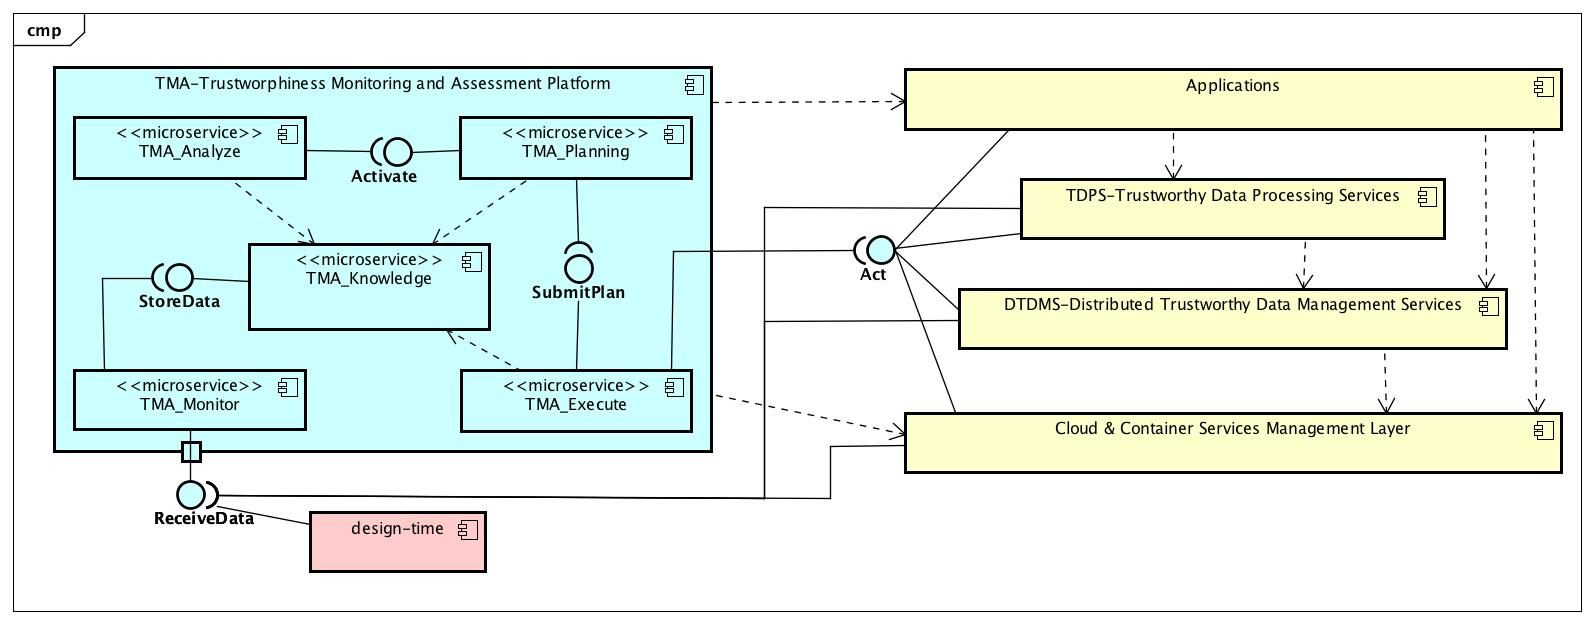
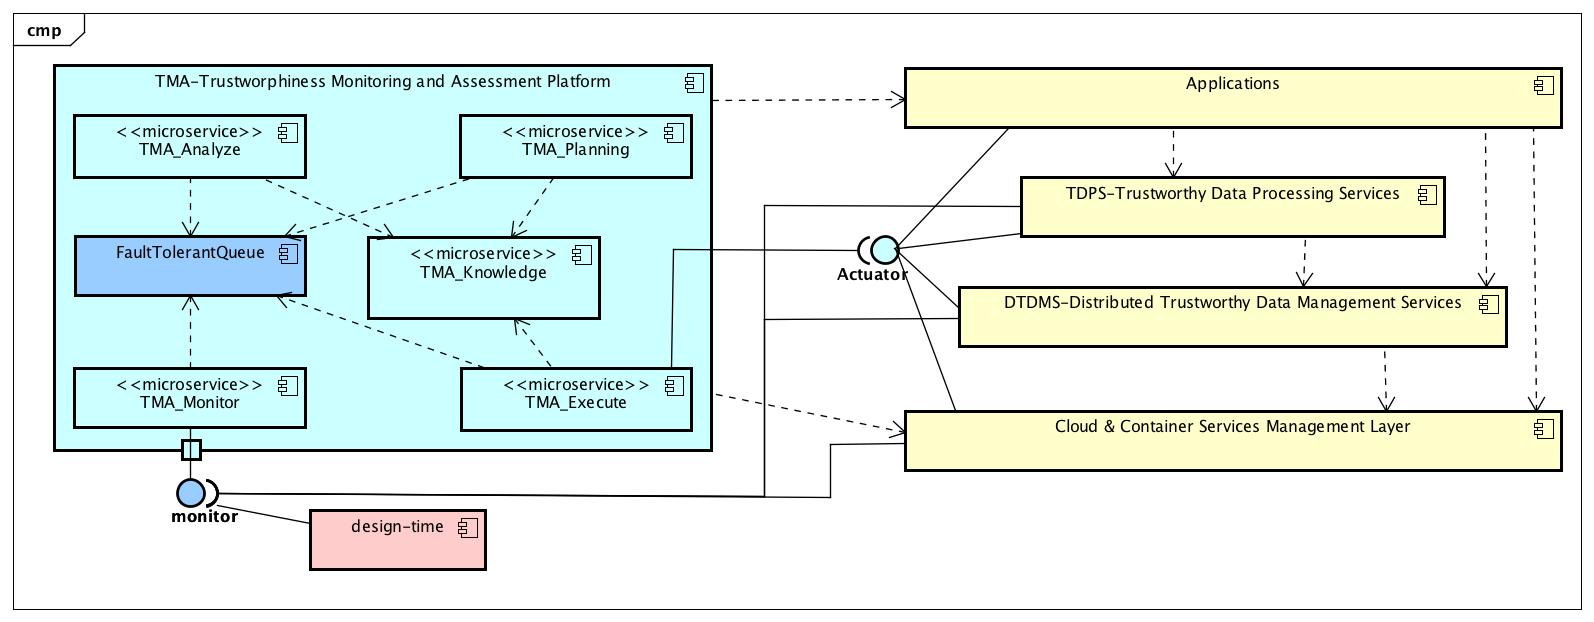
Architecture v2 for the UFCG F2F (#4)
* Detailed Architecture for the F2F Meeting at UFCG.
* TMA Execute Diagrams detailed.
* New sequence diagrams for the E component.
* Monitor documentation update.

diff --git a/README.md b/README.md
@@ -22,11 +22,11 @@ Finally, the components of the remaining ecosystem layers provide an interface w
 
 ## TMA Platform Architecture
 
-The platform architecture is presented in the [figure below](architecture/diagrams/TMA-Platform_Detailed_Architecture_Actors.jpg). 
+The platform architecture is presented in the [figure below](architecture/diagrams/TMA-Platform_Detailed_Architecture.jpg). 
 In practice, the platform is a special-purpose [**ATMOSPHERE**](http://www.atmosphere-eubrazil.eu) application, also deployed over the container services layer, and internally designed in a microservices architecture, where each component represents one `MAPE-K` step.
 
 
-*![High level architecture of TMA Framework](architecture/diagrams/TMA-Platform_Detailed_Architecture_Actors.jpg) Architecture and interfaces of the trustworthiness platform.*
+*![High level architecture of TMA Framework](architecture/diagrams/TMA-Platform_Detailed_Architecture.jpg) Architecture and interfaces of the trustworthiness platform.*
 
 
 The [`TMA_Monitor`](#tma_monitor) component follows a passive strategy (push mode) in which the other layers provide trustworthiness-related information through the `ReceiveData` RESTful interface. 
@@ -53,19 +53,19 @@ Finally, the [`TMA_Execute`](#tma_execute) microservice runs the adaptation plan
 More details can be found in the documentation of each of these components.
 
 ### TMA\_Monitor
-[Main repository available here.](https://github.com/nmsa/tma-framework-m)
+[Main repository available here.](https://github.com/eubr-atmosphere/tma-framework-m)
 
 ### TMA\_Analyze
-[Main repository available here.](https://github.com/nmsa/tma-framework-a)
+[Main repository available here.](https://github.com/eubr-atmosphere/tma-framework-a)
 
 ### TMA\_Planning
-[Main repository available here.](https://github.com/nmsa/tma-framework-p)
+[Main repository available here.](https://github.com/eubr-atmosphere/tma-framework-p)
 
 ### TMA\_Execute
-[Main repository available here.](https://github.com/nmsa/tma-framework-e)
+[Main repository available here.](https://github.com/eubr-atmosphere/tma-framework-e)
 
 ### TMA\_Knowledge
-[Main repository available here.](https://github.com/nmsa/tma-framework-k)
+[Main repository available here.](https://github.com/eubr-atmosphere/tma-framework-k)
 
 
 
